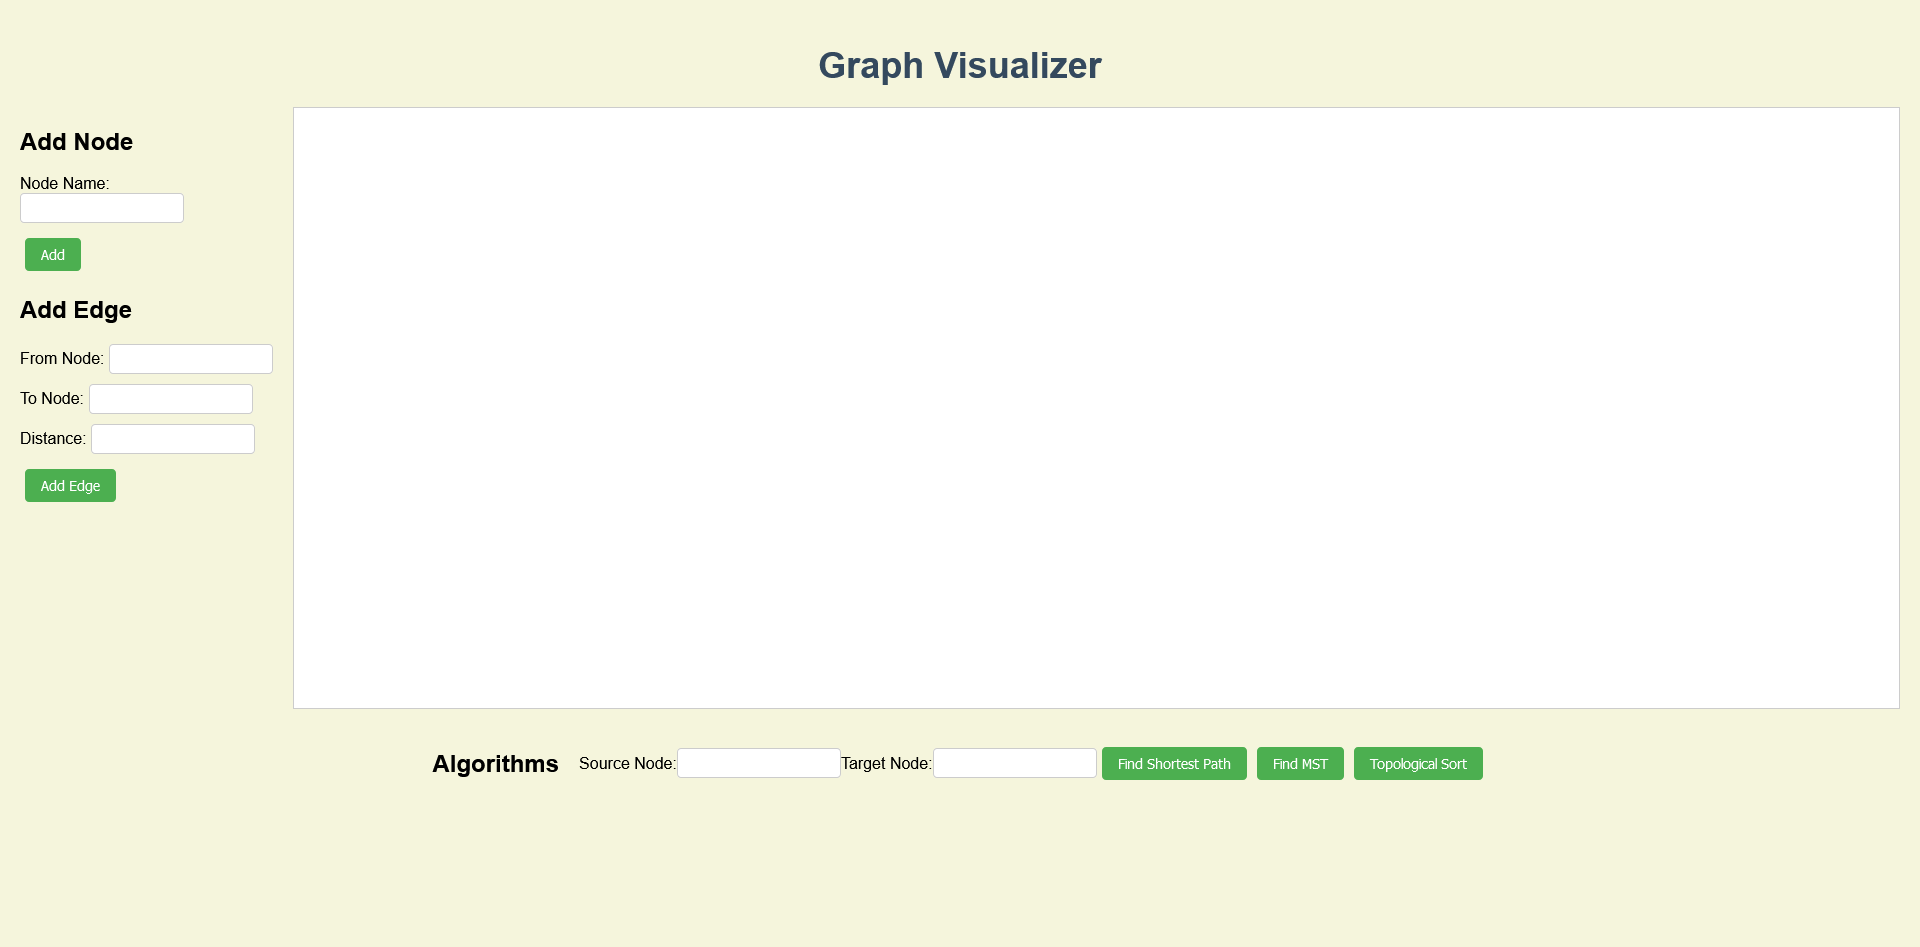
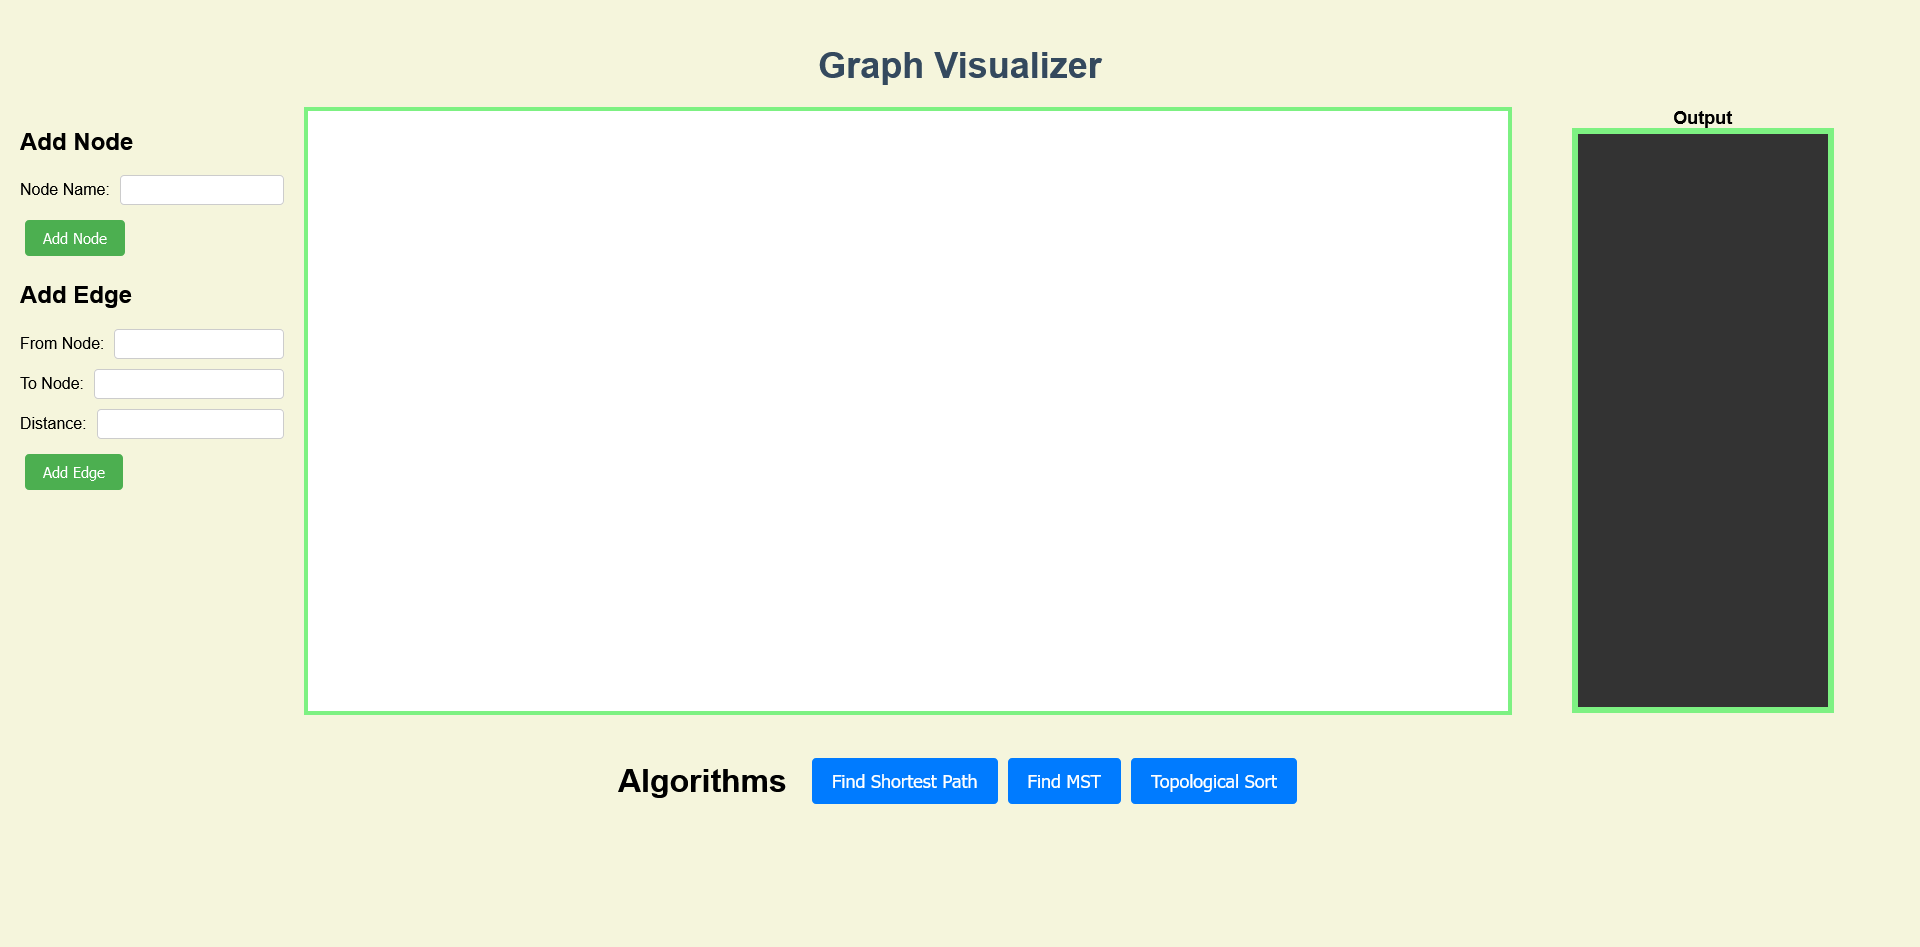
Output Functional

Changed region(s): [[0.0, 0.0919, 1.0, 0.8574]]

diff --git a/app.js b/app.js
@@ -33,6 +33,35 @@ let graph = new vis.Network(
 );
 
 
+// Function to clear the output
+
+// Function to clear the output
+function clearOutput() {
+    document.getElementById("output-box").innerHTML = "";
+}
+
+// Function to display algorithm function, name, and text in the output box
+function displayOutput(algorithmFunction, algorithmName, text) {
+    const outputBox = document.getElementById("output-box");
+    outputBox.innerHTML = `<strong>${algorithmFunction}</strong><br><em>${algorithmName}</em><br>${text}`;
+}
+
+// Function to display text in the output box
+function displayTextOutput(text) {
+    document.getElementById("output-box").innerText = text;
+}
+
+// Function to display array as a list in the output box
+function displayArrayOutput(array) {
+    const outputBox = document.getElementById("output-box");
+    array.forEach(item => {
+        const listItem = document.createElement("li");
+        listItem.innerText = item;
+        outputBox.appendChild(listItem);
+    });
+}
+
+
 // Function to reset highlighted edges
 function resetHighlightedEdges() {
     let allEdges = graph.body.data.edges.getIds();
@@ -43,38 +72,54 @@ function resetHighlightedEdges() {
 
 function addNode() {
     let nodeName = document.getElementById("node-input").value.trim().toUpperCase();
+    console.log(`Attempting to add node: ${nodeName}`);  // Debug log
+
     if (nodeName) {
         let existingNodes = graph.body.data.nodes.getIds();
+        console.log(`Existing nodes: ${existingNodes}`);  // Debug log
+
         if (existingNodes.includes(nodeName)) {
+            console.log("Node already exists!");  // Debug log
             alert("Node already exists!");
         } else {
             let newNode = { id: nodeName, label: nodeName };
             graph.body.data.nodes.add(newNode);
+            console.log("Node added successfully");  // Debug log
         }
         document.getElementById("node-input").value = "";
     }
-}
 
+    // Force a redraw of the graph to update its internal state
+    graph.redraw();
+}
 function addEdge() {
     let fromNode = document.getElementById("from-node-input").value.trim().toUpperCase();
     let toNode = document.getElementById("to-node-input").value.trim().toUpperCase();
     let distance = document.getElementById("distance-input").value.trim();
 
+    console.log(`Attempting to add edge from ${fromNode} to ${toNode} with distance ${distance}`);  // Debug log
+
     if (parseFloat(distance) < 0) {
+        console.log("Negative weights are not allowed!");  // Debug log
         alert("Negative weights are not allowed!");
         return;
     }
 
     let existingNodes = graph.body.data.nodes.getIds();
+    let existingEdges = graph.body.data.edges.getIds();
 
     if (fromNode && toNode && distance) {
         if (existingNodes.includes(fromNode) && existingNodes.includes(toNode)) {
             let newEdge = { from: fromNode, to: toNode, label: distance };
             graph.body.data.edges.add(newEdge);
+            resetHighlightedEdges();  // Reset highlighted edges
         } else {
             alert("One or both nodes do not exist!");
         }
     }
+
+     // Force a redraw of the graph to update its internal state
+     graph.redraw();
 
     // Clear the input boxes
     document.getElementById("from-node-input").value = "";
@@ -121,126 +166,150 @@ function toggleInputFieldsForShortestPath(show) {
 }
 
 
-// Use Dijkstra's Algorithm to find shortest path.
+// Use Dijkstra's Algorithm to find the shortest path.
 function findShortestPath() {
     let highlightedEdges = [];  // Define the array if it's not already defined
+    clearOutput();  // Clear the previous output
     resetHighlightedEdges(); // Reset any previously highlighted edges
+    
+    // Fetch the source and target nodes from the user input
     let sourceNode = document.getElementById("source-node-input").value.trim().toUpperCase();
     let targetNode = document.getElementById("target-node-input").value.trim().toUpperCase();
 
+
+    console.log(`Finding shortest path from ${sourceNode} to ${targetNode}`);  // Debug log
+    // Fetch existing nodes to make sure we have the most up-to-date state
     let existingNodes = graph.body.data.nodes.getIds();
     
     // Check if source and target nodes exist in the graph
     if (!existingNodes.includes(sourceNode) || !existingNodes.includes(targetNode)) {
-        alert("Source or target node does not exist!");
-        return;  // Exit the function
+        displayOutput("Shortest Path", "Dijkstra's Algorithm", "Source or target node does not exist!");
+        return;
     }
 
-    if (sourceNode && targetNode) {
-        let distances = {};
-        let previousNodes = {};
-        let queue = new PriorityQueue();
+    // Initialize Dijkstra's internal state
+    let distances = {};
+    let previousNodes = {};
+    let queue = new PriorityQueue();
 
-        graph.body.data.nodes.forEach(node => {
-            distances[node.id] = Infinity;
-            previousNodes[node.id] = null;
-            queue.enqueue(node.id, Infinity);
+    graph.body.data.nodes.forEach(node => {
+        distances[node.id] = Infinity;
+        previousNodes[node.id] = null;
+        queue.enqueue(node.id, Infinity);
+    });
+
+    distances[sourceNode] = 0;
+    queue.changePriority(sourceNode, 0);
+
+    // Main Dijkstra's loop
+    while (!queue.isEmpty()) {
+        let current = queue.dequeue();
+        graph.getConnectedEdges(current.element, { outgoing: true }).forEach(edge => {
+            let edgeData = graph.body.data.edges.get(edge);
+            let neighbor = edgeData.to;
+            let distance = distances[current.element] + parseInt(edgeData.label);
+            
+            if (distance < distances[neighbor]) {
+                distances[neighbor] = distance;
+                previousNodes[neighbor] = current.element;
+                queue.changePriority(neighbor, distance);
+            }
         });
+    }
 
-        distances[sourceNode] = 0;
-        queue.changePriority(sourceNode, 0);
+    // Construct the shortest path
+    let shortestPath = [];
+    let current = targetNode;
+    
+    while (current !== null) {
+        if (previousNodes[current] === null && current !== sourceNode) {
+            displayOutput("Shortest Path", "Dijkstra's Algorithm", "No path found.");
+            return;
+        }
+        shortestPath.unshift(current);
+        current = previousNodes[current];
+    }
 
-        while (!queue.isEmpty()) {
-            let current = queue.dequeue();
-            graph.getConnectedEdges(current.element, { outgoing: true }).forEach(edge => {
-                let edgeData = graph.body.data.edges.get(edge);
-                let neighbor = edgeData.to;
-                let distance = distances[current.element] + parseInt(edgeData.label);
-                
-                if (distance < distances[neighbor]) {
-                    distances[neighbor] = distance;
-                    previousNodes[neighbor] = current.element;
-                    queue.changePriority(neighbor, distance);
-                }
+    // Clear input boxes after executing the algorithm
+    document.getElementById("source-node-input").value = "";
+    document.getElementById("target-node-input").value = "";
+
+    console.log(`Shortest path found: ${shortestPath.join(" -> ")}`);  // Debug log
+
+    // Highlight the path and display the result
+    if (shortestPath.length > 1) {
+        let pathLength = 0;
+        for (let i = 0; i < shortestPath.length - 1; i++) {
+            let edge = graph.body.data.edges.get({
+                filter: edge => edge.from === shortestPath[i] && edge.to === shortestPath[i + 1]
+            })[0];
+            pathLength += parseInt(edge.label);
+
+            // Highlight this edge on the graph
+            highlightedEdges.push(edge.id);
+            graph.body.data.edges.update({
+                id: edge.id,
+                color: { color: "#FFD700" },
+                dashes: true
             });
         }
-
-        let shortestPath = [];
-        let current = targetNode;
-        
-        while (current !== null) {
-            if (previousNodes[current] === null && current !== sourceNode) {
-                alert("No path found.");
-                return; // Exit the function if a disconnected node is encountered
-            }
-            shortestPath.unshift(current);
-            current = previousNodes[current];
-        }
-
-     // Clear input boxes after executing the algorithm
-     document.getElementById("source-node-input").value = "";
-     document.getElementById("target-node-input").value = "";
-
-    // (After finding the shortest path, use the following to highlight it)
-    if (shortestPath.length > 1) {
-        for (let i = 0; i < shortestPath.length - 1; i++) {
-            let fromNodeId = shortestPath[i];
-            let toNodeId = shortestPath[i + 1];
-            let edges = graph.getConnectedEdges(fromNodeId, { outgoing: true });
-            
-            let minWeight = Infinity;
-            let minWeightEdge = null;
-            for (let edge of edges) {
-                let edgeData = graph.body.data.edges.get(edge);
-                if (edgeData.to === toNodeId && parseInt(edgeData.label) < minWeight) {
-                    minWeight = parseInt(edgeData.label);
-                    minWeightEdge = edge;
-                }
-            }
-    
-            if (minWeightEdge !== null) {
-                let edgeData = graph.body.data.edges.get(minWeightEdge);
-                highlightedEdges.push({
-                    id: minWeightEdge,
-                    originalColor: edgeData.color,
-                    originalDashes: edgeData.dashes || false
-                });
-                graph.body.data.edges.update({
-                    id: minWeightEdge,
-                    color: { color: "#FFD700" },  // Bright gold color
-                    dashes: true  // Dashed line
-                });
-            }
-        }
+        displayOutput("Shortest Path", "Dijkstra's Algorithm", `Path: ${shortestPath.join(" -> ")}<br>Length: ${pathLength}`);
     } else {
-        alert("No path found.");
+        displayOutput("Shortest Path", "Dijkstra's Algorithm", "No path found.");
     }
-    }
+}
+
+
+// Function to reset node color to default
+function resetNodeColor(nodeId) {
+    graph.body.data.nodes.update({
+        id: nodeId,
+        color: {
+            background: 'lightgreen',
+            border: 'darkgreen'
+        }
+    });
 }
 
 // Function to highlight nodes one by one based on topological order
 function highlightNodesSequentially(sortedNodes) {
     let delay = 0; // milliseconds
-    for (let node of sortedNodes) {
+
+    // Reset all node colors to default before starting highlighting
+    sortedNodes.forEach(node => {
+        resetNodeColor(node);
+    });
+
+    for (let i = 0; i < sortedNodes.length; i++) {
         setTimeout(() => {
-            graph.selectNodes([node], [true]);
+            // Reset the previous node's color if it's not the first node
+            if (i > 0) {
+                resetNodeColor(sortedNodes[i - 1]);
+            }
+
+            // Highlight the current node
             graph.body.data.nodes.update({
-                id: node,
+                id: sortedNodes[i],
                 color: {
                     background: "#FFD700",  // Gold color
                     border: "#B8860B"  // Dark goldenrod
                 }
             });
         }, delay);
+
         delay += 1000;  // Increment the delay for the next node
     }
+
+    // Reset the color of the last node after highlighting is complete
+    setTimeout(() => {
+        resetNodeColor(sortedNodes[sortedNodes.length - 1]);
+    }, delay);
 }
-
-
 
 
 // Function to perform topological sorting using Kahn's Algorithm
 function topologicalSort() {
+    clearOutput();  // Clear the previous output
     let indegree = {};
     graph.body.data.nodes.forEach(node => {
         indegree[node.id] = 0;
@@ -271,12 +340,14 @@ function topologicalSort() {
     }
 
     if (sortedNodes.length === graph.body.data.nodes.getIds().length) {
-        alert("Topological Sorting Order: " + sortedNodes.join(", "));
-        highlightNodesSequentially(sortedNodes);  // Highlight nodes in sorted order
+        displayOutput("Topological Sort", "Using Kahn's Algorithm", sortedNodes.join(", "));
+        // Call the highlightNodesSequentially function here
+        highlightNodesSequentially(sortedNodes);
     } else {
-        alert("Graph contains a cycle. Topological sorting is not possible.");
+        displayOutput("Topological Sort", "Using Kahn's Algorithm", "Graph contains a cycle. Topological sorting is not possible.");
     }
 }
+
 
 
 // Function to find the Minimum Spanning Tree (MST) using Kruskal's algorithm

diff --git a/index.html b/index.html
@@ -46,9 +46,9 @@
         </div>
         <div class="algorithm-section">
             <h2 class="algo-title">Algorithms</h2>
-            <button id="find-path-btn">Find Shortest Path</button>
-            <button id="find-mst-btn">Find MST</button>
-            <button id="topological-sort-btn">Topological Sort</button>
+            <button class="algo-button" id="find-path-btn">Find Shortest Path</button>
+            <button class="algo-button" id="find-mst-btn">Find MST</button>
+            <button class="algo-button" id="topological-sort-btn">Topological Sort</button>
             <div id="source-target-inputs" style="display:none;">
                 <label for="source-node-input">Source Node:</label>
                 <input type="text" id="source-node-input">

diff --git a/styles.css b/styles.css
@@ -108,13 +108,28 @@ body {
 
 .algo-title {
     margin-right: 20px;
-    font-size: 24px;
+    font-size: 32px;
+}
+
+.algo-button {
+    margin: 5px;
+    padding: 12px 20px;  /* Increased padding */
+    font-size: 18px;  /* Increased font size */
+    background-color: #007bff;  /* Changed background color */
+    color: white;
+    border: none;
+    cursor: pointer;
+    border-radius: 4px;
+}
+
+.algo-button:hover {
+    background-color: #0056b3;  /* Darker shade for hover */
 }
 
 button {
     margin: 5px;
-    padding: 10px 18px;  /* Increased padding for larger buttons */
-    font-size: 16px;  /* Increased font size */
+    padding: 9px 18px;
+    font-size: 15px;
     background-color: #4CAF50;
     color: white;
     border: none;
